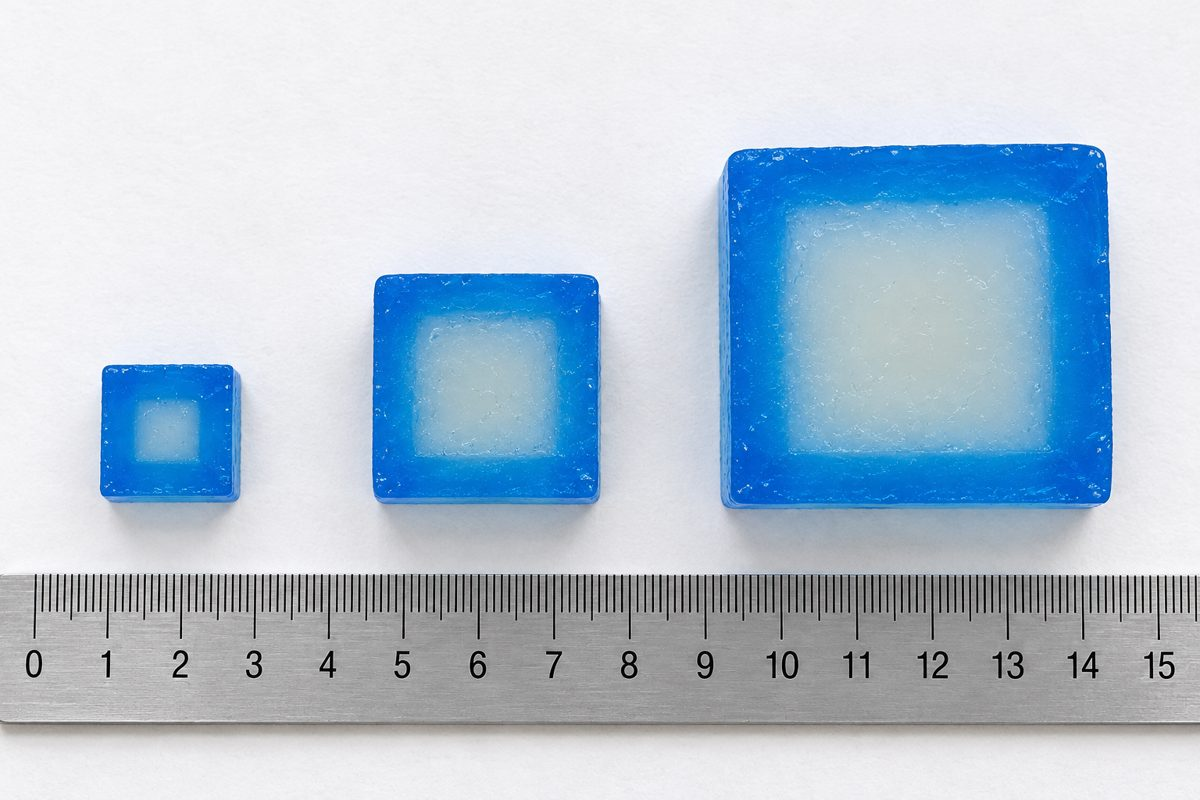
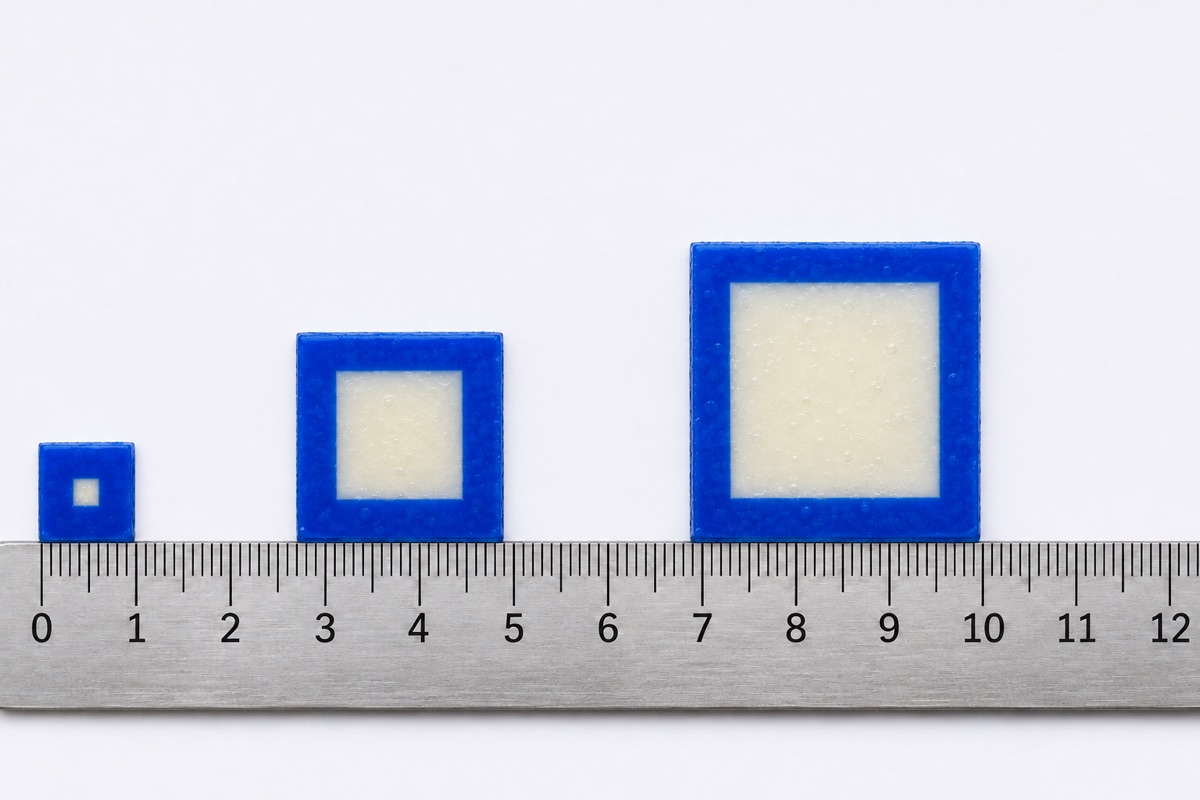
New agar cube photos, hydra, sea star and cleavage photos; remove two unused images

diff --git a/index.html b/index.html
@@ -1339,7 +1339,7 @@ const L1_LESSON=[
  {title:'The cell cycle: a clock with two halves',html:`<p>A cell's life runs in a loop called the cell cycle. Most of the loop is interphase, where the cell lives, grows and copies its DNA. Only a short slice is mitosis (M phase), where it actually divides. Drag the slider to walk around the clock and watch the cell change: it grows and builds organelles in G1, copies its DNA and its centrosome in S, makes its final preparations in G2, then divides in M.</p><div class="grid2" style="align-items:center"><div><svg viewBox="0 0 260 260" style="width:100%;max-width:300px;display:block;margin:0 auto" id="clock"></svg></div><div><canvas class="cell" id="cycCv" width="800" height="520" aria-label="A cell changing as you move around the cell cycle"></canvas></div></div><input type="range" id="clk" min="0" max="359" value="20" aria-label="Position in the cell cycle" style="margin-top:10px"><div class="card soft" id="clkT" style="margin-top:8px"></div>`,init(b){ const svg=$('#clock',b); const segs=[['G1',...CYC.G1,'#87CEEB','Growth 1: the cell grows, makes proteins and organelles, and does its everyday job.'],['S',...CYC.S,'#4B9CD3','Synthesis: every chromosome is copied, so each one becomes two identical sister chromatids. The centrosome is copied too.'],['G2',...CYC.G2,'#2a6f9e','Growth 2: more growth, and a final check that the DNA copied correctly.'],['M',...CYC.M,'#e11d48','Mitosis + cytokinesis: the nucleus divides (prophase, metaphase, anaphase, telophase), then the cell splits. It is the shortest slice of the clock.']]; const P=(a,r)=>[130+r*Math.cos((a-90)*Math.PI/180),130+r*Math.sin((a-90)*Math.PI/180)]; const arc=(a0,a1,c,r1=116,r0=70)=>{ const g=1.2,[x0,y0]=P(a0+g,r1),[x1,y1]=P(a1-g,r1),[x2,y2]=P(a1-g*1.6,r0),[x3,y3]=P(a0+g*1.6,r0),big=a1-a0>180?1:0; return `<path d="M${x0},${y0} A${r1},${r1} 0 ${big} 1 ${x1},${y1} L${x2},${y2} A${r0},${r0} 0 ${big} 0 ${x3},${y3} Z" fill="${c}"/>`; }; const lbl=(a0,a1,t)=>{ const [x,y]=P((a0+a1)/2,93); return `<text x="${x}" y="${y}" text-anchor="middle" dominant-baseline="central" font-family="Sora, sans-serif" font-weight="700" font-size="${t==='M'?17:21}" fill="#fff">${t}</text>`; }; const [ix0,iy0]=P(CYC.G1[0]+3,124),[ix1,iy1]=P(CYC.M[0]-3,124),[mx0,my0]=P(CYC.M[0]+3,124),[mx1,my1]=P(357,124);
    svg.innerHTML=`<defs><filter id="clkSh" x="-20%" y="-20%" width="140%" height="140%"><feDropShadow dx="0" dy="3" stdDeviation="4" flood-color="#15345A" flood-opacity=".22"/></filter></defs><g filter="url(#clkSh)">${segs.map(s=>arc(s[1],s[2],s[3])).join('')}</g><path d="M${ix0},${iy0} A124,124 0 1 1 ${ix1},${iy1}" fill="none" stroke="#4B9CD3" stroke-width="3" stroke-linecap="round" opacity=".55"/><path d="M${mx0},${my0} A124,124 0 0 1 ${mx1},${my1}" fill="none" stroke="#e11d48" stroke-width="3" stroke-linecap="round" opacity=".7"/>${segs.map(s=>lbl(s[1],s[2],s[0])).join('')}<text x="130" y="112" text-anchor="middle" font-family="Sora, sans-serif" font-weight="700" font-size="11" letter-spacing="1.5" style="fill:var(--carolina)">YOU ARE IN</text><text id="clkPh" x="130" y="146" text-anchor="middle" font-family="Sora, sans-serif" font-weight="800" font-size="34" style="fill:var(--ink)">G1</text><text id="clkSub" x="130" y="164" text-anchor="middle" font-family="Atkinson Hyperlegible, sans-serif" font-weight="700" font-size="11" style="fill:var(--ink2)">interphase</text><g id="hand"><circle cx="130" cy="37" r="13" fill="#fff" stroke="#15345A" stroke-width="4"/><circle cx="130" cy="37" r="4.5" fill="#15345A"/></g>`; const cyc=$('#cycCv',b).getContext('2d'); const upd=()=>{const a=+$('#clk',b).value; $('#hand',b).setAttribute('transform',`rotate(${a} 130 130)`); drawCycleScene(cyc,a,800,520); const s=segs.find(s=>a>=s[1]&&a<s[2]); $('#clkPh',b).textContent=s[0]; $('#clkSub',b).textContent=s[0]==='M'?'mitosis + cytokinesis':'interphase'; $('#clkT',b).innerHTML=`<h4>${s[0]} phase ${s[0]==='M'?'':'(part of interphase)'}</h4><p class="small">${s[4]}</p>`;}; $('#clk',b).oninput=upd; upd(); cfu(b,{type:'mc',stem:'During which part of the cell cycle is the DNA copied?',opts:['S phase of interphase','Metaphase','Cytokinesis','G1 phase'],ans:0,why:'S stands for synthesis. The DNA is copied before mitosis starts, which is why each chromosome enters prophase as two sister chromatids.'}); }},
  {title:'Meet the cast',html:`<p>Four structures do the work of mitosis. Scrub through the whole process once, then name each structure and its job.</p><div id="vw"></div><div class="tbl-wrap"><table class="t" style="margin-top:12px"><tr><th>Structure</th><th>Job</th></tr><tr><td>Nucleus</td><td>Holds the DNA; its envelope must break down so the chromosomes can be moved</td></tr><tr><td>DNA: chromatin → chromosomes</td><td>Chromatin is the loose, readable form; chromosomes are the tightly packed, movable form</td></tr><tr><td>Centrosomes (2 centrioles each)</td><td>Organize the spindle from each pole of the cell</td></tr><tr><td>Mitotic spindle fibers</td><td>Attach to centromeres, line chromosomes up, then guide the chromatids to the poles</td></tr></table></div><div class="callout warn" style="margin-top:12px"><b>Note: the centrosomes do not actually pull.</b> Motor proteins (kinesins and dyneins) at each kinetochore walk the sister chromatids along the spindle microtubules from the equator to the poles while the microtubules shorten. It only looks like pulling.</div>`,init(b){ cellViewer($('#vw',b)); cfu(b,{type:'match',stem:'Match each structure to its job.',pairs:[['Centrosome','Organizes the spindle at a pole'],['Spindle fiber','Attaches to a centromere and guides the chromatid to a pole'],['Chromatin','Loose, uncoiled DNA'],['Chromosome','Tightly coiled DNA ready to move']],why:'Centrosomes organize the spindle, spindle fibers attach to the chromosomes, and DNA switches between loose chromatin and packed chromosomes depending on the phase.'}); }},
- ...[0,1,2,3,4,5].map(i=>({title:PHASE_NOTES[i].title,html:`<p>${PHASE_NOTES[i].text}</p><div id="vw"></div><div class="compare" style="margin-top:12px">${photo('mitosis-'+PHASES[i].toLowerCase(),'Onion root tip, '+PHASES[i].toLowerCase()+' '+SIM)}<div class="card soft" style="margin:0"><div class="eyebrow">Compare</div><p class="small">${['Find the big round nucleus with its dark nucleolus and the speckled chromatin. No separate chromosomes are visible yet.','The nucleus is now a tangle of thick worm-like chromosomes and its outline is fading. Compare with the animation: same event, real cell.','One dark band of chromosomes straight across the middle. Both poles of the cell are clear. This is the frame students most often recognize.','Two V-shaped crowds of chromosomes pulling toward opposite ends, with a clear gap between them.','Two clusters at the poles, each starting to round up into a new nucleus, and a faint cell plate forming across the middle (this is a plant cell).','Two complete daughter cells, each with its own small nucleus, sharing a brand-new wall. Notice they are smaller than their neighbors.'][i]}</p></div></div>${i===5?photo('animal-cell-cleavage','An animal cell pinching in two. The groove around its middle is the cleavage furrow.'):''}<div id="cf"></div>`,init(b){ cellViewer($('#vw',b),{lock:i,start:i+0.01}); const qs={0:{type:'tf',stem:'During interphase the DNA is spread out as chromatin, not packed into X-shaped chromosomes.',ans:true,why:'Loose chromatin can be read and copied. Chromosomes only condense once division begins.'},1:{type:'mc',stem:'Which two things happen during prophase?',opts:['Chromatin condenses into chromosomes and the nuclear envelope breaks down','Chromosomes line up in the middle and sister chromatids separate','The cytoplasm pinches and two nuclei form','DNA is copied and the cell grows'],ans:0,why:'Prophase is the prep phase: pack the DNA, take down the nuclear envelope, and send the centrosomes to the poles.'},2:{type:'mc',stem:'What is the metaphase plate?',opts:['The imaginary line down the middle where chromosomes line up','A new cell wall','The nuclear envelope','The place where centrosomes sit'],ans:0,why:'Metaphase = Middle. Spindle fibers from both poles attach to each chromosome until it sits on the equator.'},3:{type:'mc',stem:'What exactly gets pulled apart in anaphase?',opts:['Sister chromatids, one copy of each chromosome to each pole','The two centrosomes','The nucleus and the cytoplasm','The cell membrane'],ans:0,why:'Anaphase = Apart. The centromere splits and each chromatid becomes its own chromosome heading to a pole.'},4:{type:'seq',stem:'Put these telophase events in order.',items:['Chromosomes arrive at the poles','Nuclear envelopes form around each set','Chromosomes unwind back into chromatin'],why:'Telophase = Two nuclei. It is basically prophase played in reverse.'},5:{type:'tf',stem:'Cytokinesis divides the nucleus.',ans:false,why:'Mitosis divides the nucleus. Cytokinesis divides the cytoplasm, finishing the job with two separate cells.'}}[i]; cfu($('#cf',b),qs); }})),
+ ...[0,1,2,3,4,5].map(i=>({title:PHASE_NOTES[i].title,html:`<p>${PHASE_NOTES[i].text}</p><div id="vw"></div><div class="compare" style="margin-top:12px">${photo('mitosis-'+PHASES[i].toLowerCase(),'Onion root tip, '+PHASES[i].toLowerCase()+' '+SIM)}<div class="card soft" style="margin:0"><div class="eyebrow">Compare</div><p class="small">${['Find the big round nucleus with its dark nucleolus and the speckled chromatin. No separate chromosomes are visible yet.','The nucleus is now a tangle of thick worm-like chromosomes and its outline is fading. Compare with the animation: same event, real cell.','One dark band of chromosomes straight across the middle. Both poles of the cell are clear. This is the frame students most often recognize.','Two V-shaped crowds of chromosomes pulling toward opposite ends, with a clear gap between them.','Two clusters at the poles, each starting to round up into a new nucleus, and a faint cell plate forming across the middle (this is a plant cell).','Two complete daughter cells, each with its own small nucleus, sharing a brand-new wall. Notice they are smaller than their neighbors.'][i]}</p></div></div>${i===5?`<div class="compare" style="margin-top:12px">${photo('animal-cell-cleavage','Sea urchin embryo, first division '+SIM)}<div class="card soft" style="margin:0"><div class="eyebrow">Animal vs plant</div><p class="small">This animal cell has no rigid wall, so it pinches. The groove around its middle is the cleavage furrow, and it tightens until the two halves separate. The onion cells above could not pinch, so they built a cell plate across the middle instead.</p></div></div>`:''}<div id="cf"></div>`,init(b){ cellViewer($('#vw',b),{lock:i,start:i+0.01}); const qs={0:{type:'tf',stem:'During interphase the DNA is spread out as chromatin, not packed into X-shaped chromosomes.',ans:true,why:'Loose chromatin can be read and copied. Chromosomes only condense once division begins.'},1:{type:'mc',stem:'Which two things happen during prophase?',opts:['Chromatin condenses into chromosomes and the nuclear envelope breaks down','Chromosomes line up in the middle and sister chromatids separate','The cytoplasm pinches and two nuclei form','DNA is copied and the cell grows'],ans:0,why:'Prophase is the prep phase: pack the DNA, take down the nuclear envelope, and send the centrosomes to the poles.'},2:{type:'mc',stem:'What is the metaphase plate?',opts:['The imaginary line down the middle where chromosomes line up','A new cell wall','The nuclear envelope','The place where centrosomes sit'],ans:0,why:'Metaphase = Middle. Spindle fibers from both poles attach to each chromosome until it sits on the equator.'},3:{type:'mc',stem:'What exactly gets pulled apart in anaphase?',opts:['Sister chromatids, one copy of each chromosome to each pole','The two centrosomes','The nucleus and the cytoplasm','The cell membrane'],ans:0,why:'Anaphase = Apart. The centromere splits and each chromatid becomes its own chromosome heading to a pole.'},4:{type:'seq',stem:'Put these telophase events in order.',items:['Chromosomes arrive at the poles','Nuclear envelopes form around each set','Chromosomes unwind back into chromatin'],why:'Telophase = Two nuclei. It is basically prophase played in reverse.'},5:{type:'tf',stem:'Cytokinesis divides the nucleus.',ans:false,why:'Mitosis divides the nucleus. Cytokinesis divides the cytoplasm, finishing the job with two separate cells.'}}[i]; cfu($('#cf',b),qs); }})),
  {title:'Put it all together',html:`<div class="hook">Mnemonic: <b>I P</b>assed <b>M</b>y <b>A</b>natomy <b>T</b>est, <b>C</b>ongrats! Interphase, Prophase, Metaphase, Anaphase, Telophase, Cytokinesis.</div><p>Run the whole movie one more time. Pay attention to the transitions between phases, because in the Stop-Motion Studio you will draw those transitions yourself, frame by frame.</p><div id="vw"></div><h3 style="margin-top:16px">Phase hunt</h3><p>A real root tip never pauses for you. In this field, most cells are in interphase, but a few are caught mid-division. Four cells are pinned. Drag the right phase name onto each pin; two of the labels are decoys.</p><div id="hunt"></div><div id="cf"></div><p style="margin-top:12px">Next stop: Practice, then the Stop-Motion Studio where you make your own mitosis movie.</p>`,init(b){ cellViewer($('#vw',b)); renderQ({type:'label',scene:'photo',src:'img/mitosis-field.jpg',stem:'Phase hunt: label the pinned cells in this onion root tip field.',targets:[{x:0.18,y:0.22,r:0.07,answer:'Prophase',anchor:'w'},{x:0.47,y:0.46,r:0.075,answer:'Metaphase',anchor:'n'},{x:0.68,y:0.66,r:0.085,answer:'Anaphase',anchor:'e'},{x:0.36,y:0.85,r:0.06,answer:'Interphase',anchor:'s'}],choices:['Prophase','Metaphase','Anaphase','Interphase','Telophase','Cytokinesis'],hint:'Look at the DNA. A tangle of thick threads is prophase, one band across the middle is metaphase, two bands moving apart is anaphase, and a smooth round nucleus is interphase.',why:'Prophase: thick tangled chromosomes. Metaphase: one band across the middle. Anaphase: two bands moving apart. Interphase: a round nucleus with a nucleolus. Telophase and cytokinesis were decoys: no cell here has two new nuclei or a fresh cell plate.'},$('#hunt',b)); cfu($('#cf',b),{type:'seq',stem:'Order the full cell cycle, starting with the longest phase.',items:['Interphase','Prophase','Metaphase','Anaphase','Telophase','Cytokinesis'],why:'IPMATC. Interphase takes about 90% of the cycle.'}); }}
 ];
 function L1_learn(V){ lesson(V,1,L1_LESSON); }

diff --git a/README.md b/README.md
@@ -16,7 +16,6 @@ Static site: `index.html` plus the `img/` folder. No build step.
 - `index.html` is the whole app (styles, scripts, question banks, drawings).
 - `img/` holds the photos and micrographs. If an image is missing, the app falls back to its drawn version.
 - `img/icon.svg`, `img/favicon.png` and `img/apple-touch-icon.png` are the app icon (one cell pinching into two, in school colors).
-- Optional photos: `img/hydra-budding.jpg`, `img/starfish-regrowing-arm.jpg` and `img/animal-cell-cleavage.jpg` (about 1200 x 800). Drop them into `img/` and the matching questions and the Cytokinesis lesson pick them up automatically; until then no picture is shown there.
 - `vercel.json` sets long caching for images.
 
 ## Editing
